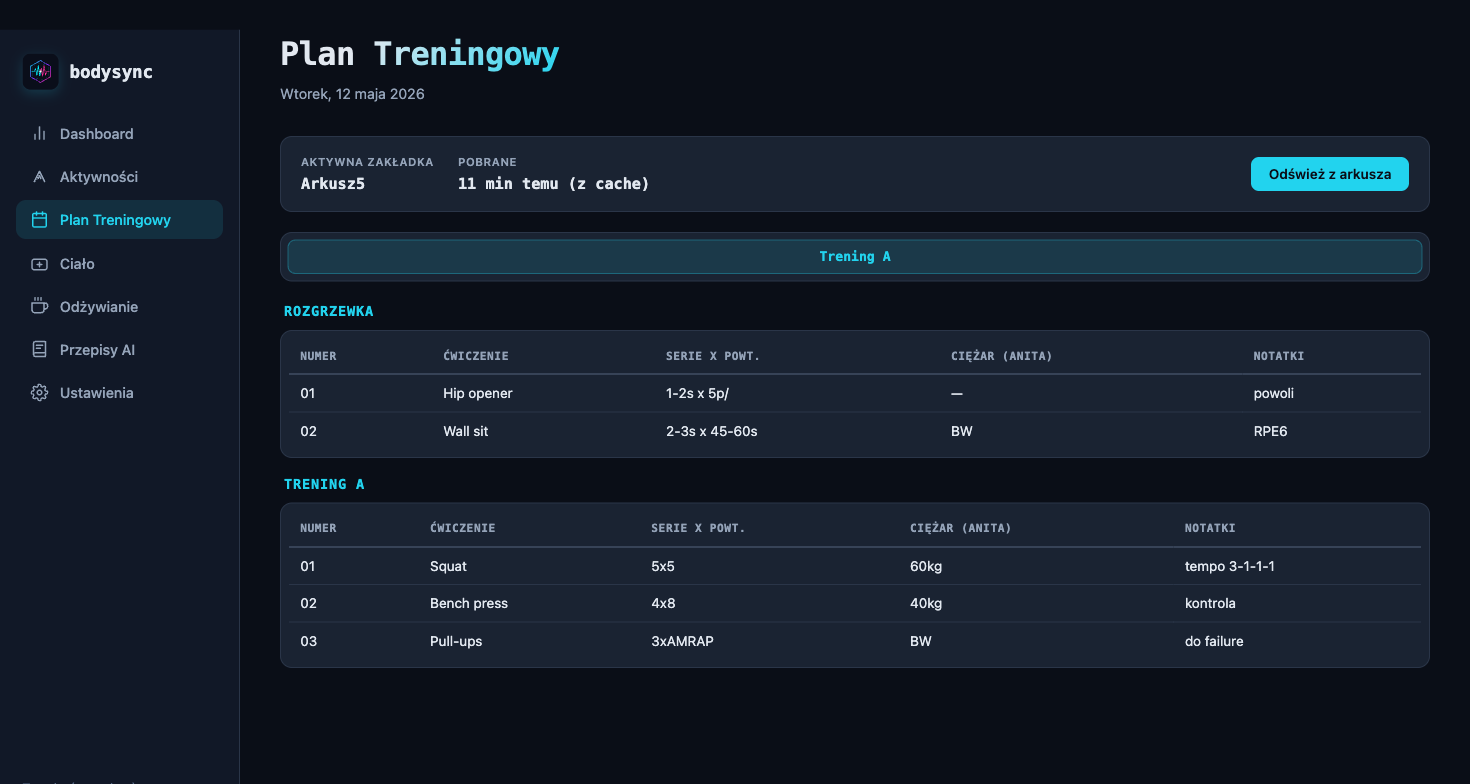
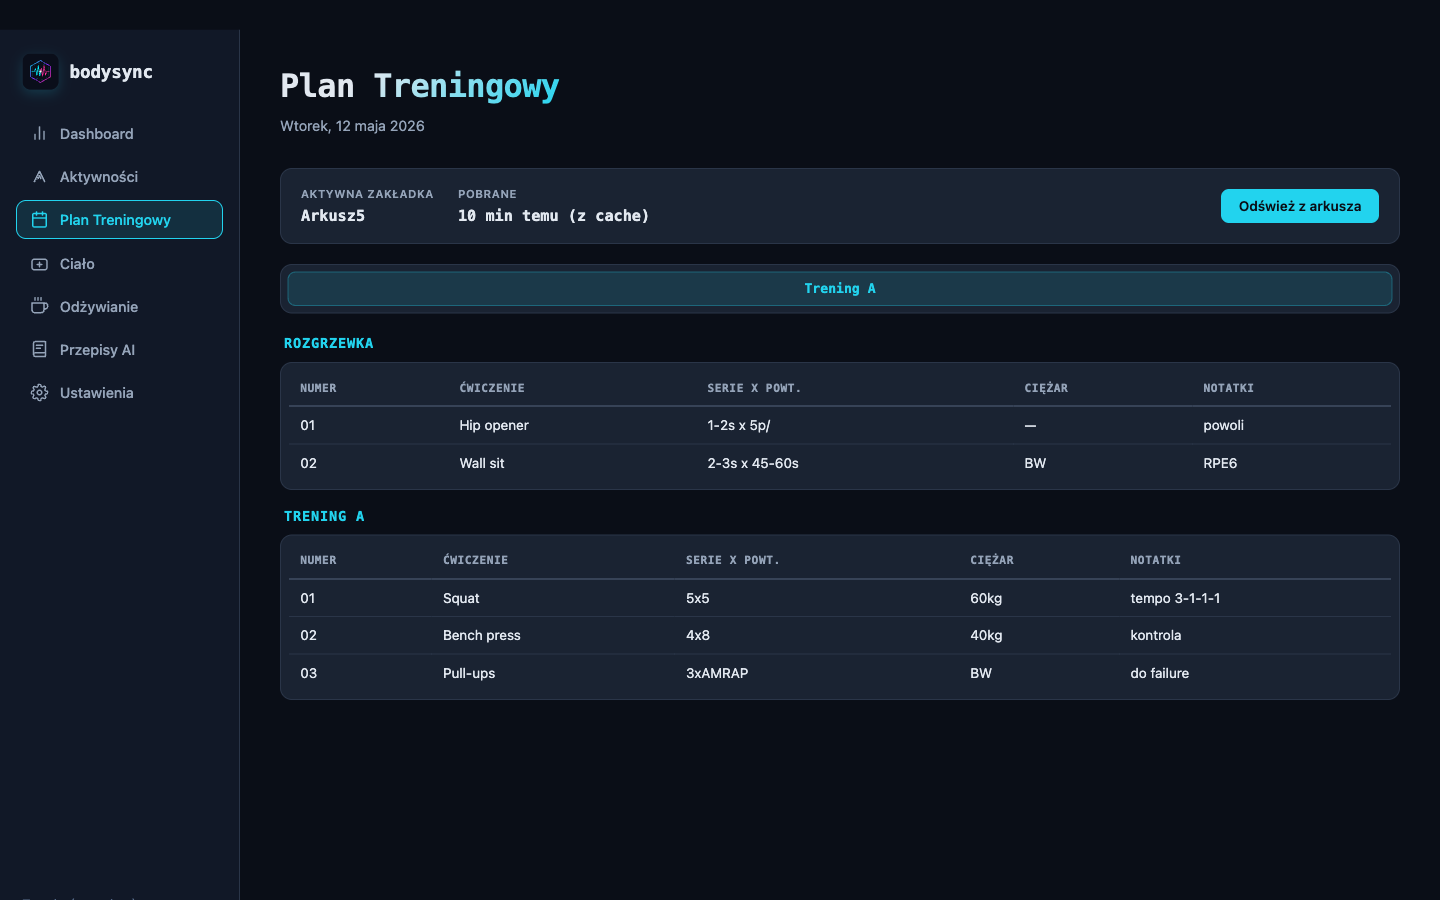
fix(waitlist): drop "Ciężar (Anita)" z mock PLAN — personal ref leak
Mock w demo gallery pokazywał kolumnę "Ciężar (Anita)" — Anita to owner-
specific trener reference, nieadekwatne dla landing demo bo nie każdy
viewer ma trenerkę o tym imieniu. Drop suffix, kolumna teraz po prostu
"Ciężar".

Re-screen plan.png via Playwright (preview-mock + banner hidden).

diff --git a/apps/web/src/preview-mock.ts b/apps/web/src/preview-mock.ts
@@ -90,11 +90,11 @@ const PROFILE_TARGETS = {
 const PLAN: PlanResponse = {
   rows: [
     ['Rozgrzewka', '', '', '', ''],
-    ['Numer', 'Ćwiczenie', 'Serie x powt.', 'Ciężar (Anita)', 'Notatki'],
+    ['Numer', 'Ćwiczenie', 'Serie x powt.', 'Ciężar', 'Notatki'],
     ['01', 'Hip opener', '1-2s x 5p/', '—', 'powoli'],
     ['02', 'Wall sit', '2-3s x 45-60s', 'BW', 'RPE6'],
     ['', '', '', '', ''],
-    ['Trening A', 'Ćwiczenie', 'Serie x powt.', 'Ciężar (Anita)', 'Notatki'],
+    ['Trening A', 'Ćwiczenie', 'Serie x powt.', 'Ciężar', 'Notatki'],
     ['01', 'Squat', '5x5', '60kg', 'tempo 3-1-1-1'],
     ['02', 'Bench press', '4x8', '40kg', 'kontrola'],
     ['03', 'Pull-ups', '3xAMRAP', 'BW', 'do failure'],
